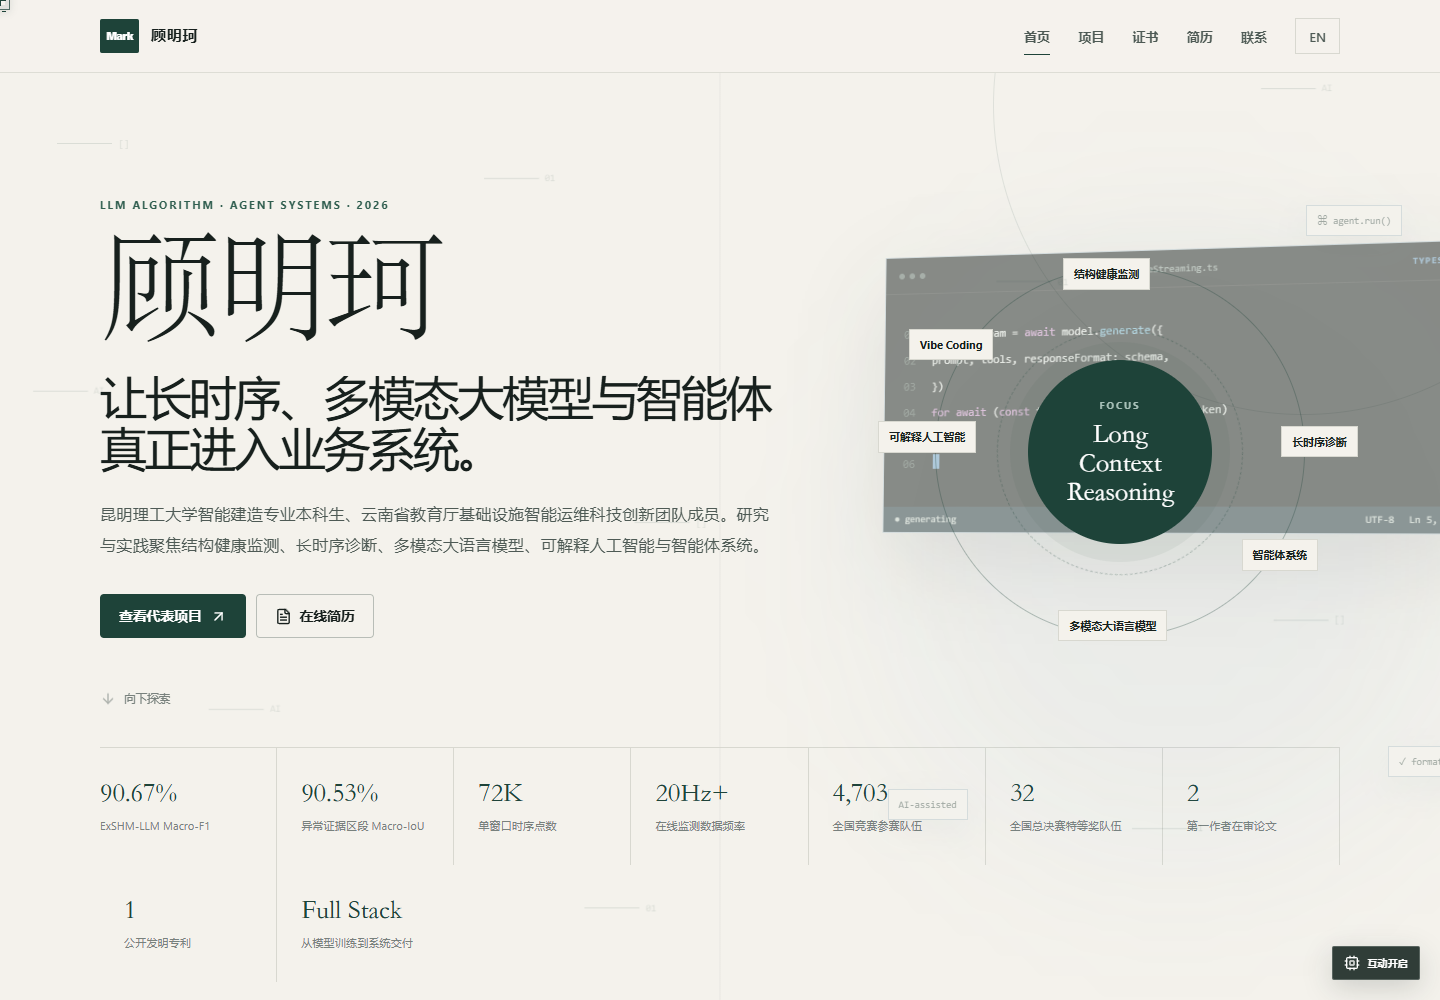
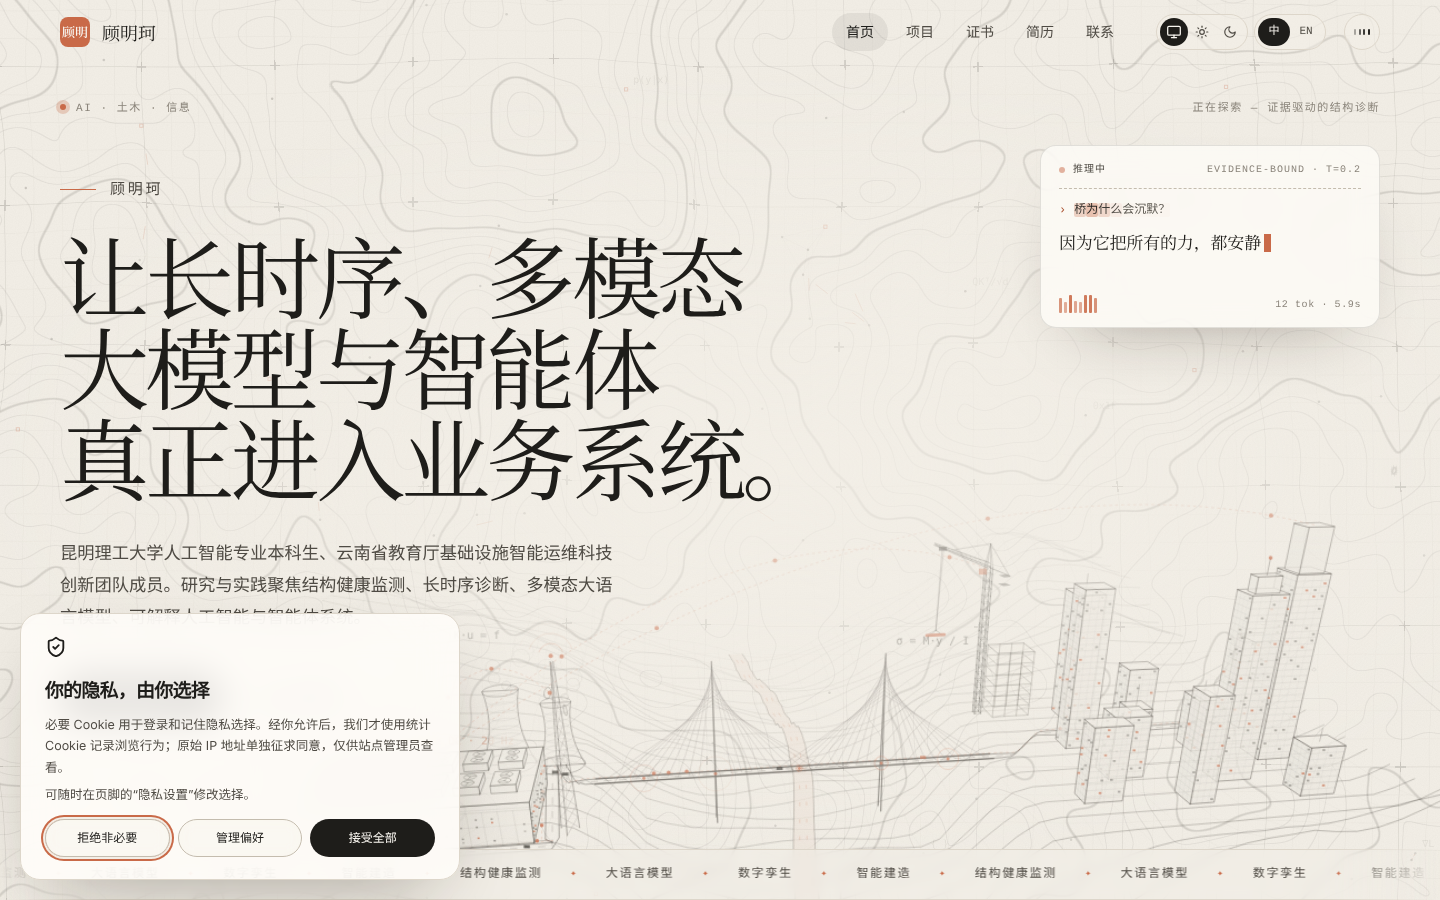
docs: 更新桌面明暗主题与移动端展示截图

diff --git a/README.en.md b/README.en.md
@@ -54,11 +54,11 @@ EvidentFolio is a self-hosted portfolio system built around that reading flow. I
 
 ## Screens
 
-| Public case study | Content management |
-| --- | --- |
-| ![Project case study](docs/images/project-detail.png) | ![Admin project editor](docs/images/admin-editor.png) |
+Local screenshots of the maintainer's portfolio show the light home page, dark interactive scene, and mobile layouts. A fresh installation still starts empty.
 
-The public demo contains the maintainer's own portfolio data; the open-source installation starts empty: **demo**.
+| Dark interactive scene | Mobile layout |
+| --- | --- |
+| ![Dark agent scene](docs/images/home-agents-dark.png) | <img src="docs/images/home-mobile.png" alt="Mobile layout" width="280" /> |
 
 ## Tech stack
 
